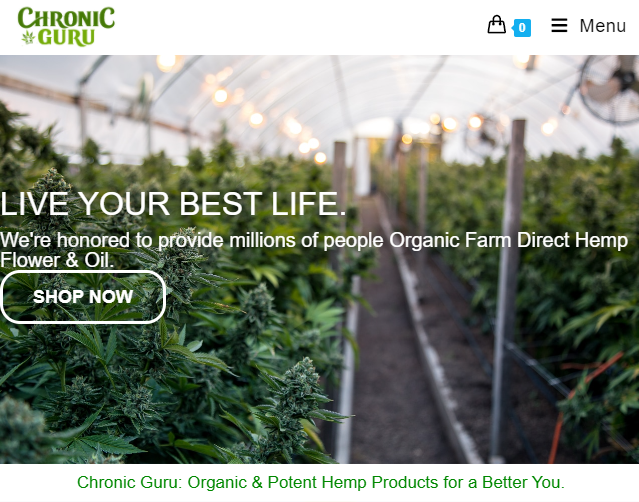
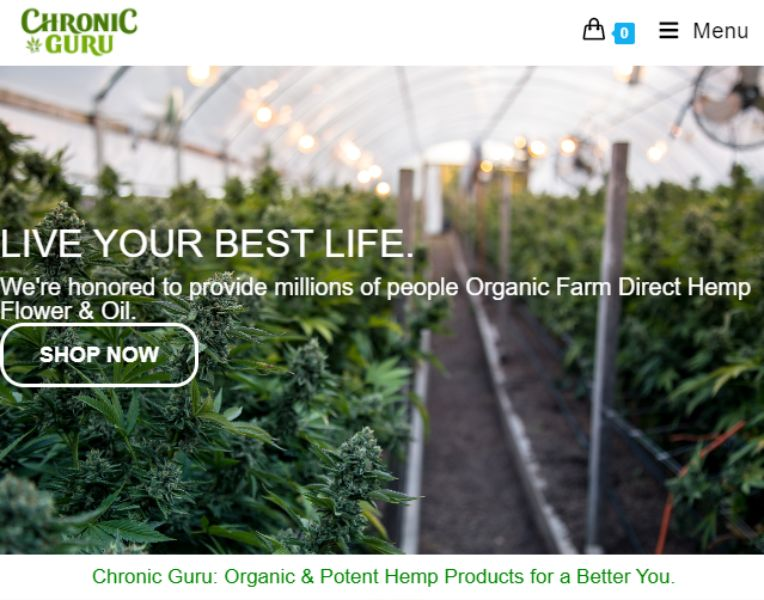
cosmetic changes
updated the layout to more user friendly on mobile, added another project

diff --git a/src/components/Projects/Projects.js b/src/components/Projects/Projects.js
@@ -3,6 +3,7 @@ import '../../App.css';
 import chronicguru from '../img/chronicguru.png';
 import learnsativa from '../img/learnsativa.png';
 import ladderlabs from '../img/ladderlabs.png';
+import dogclick from "../img/dogclick.PNG";
 
 
 class Projects extends Component {
@@ -10,17 +11,16 @@ class Projects extends Component {
     render() {
         return (
             <div>
-                <div className="container" id="project-con">
+                <div id="project-con">
                     <h1>Featured Projects</h1>
                     <hr></hr>
                     <div className="row" id="pro1">
-                        <div className="col-6">
+                        <div className="col-sm-6">
                             <a href="https:www.chronicguru.com" target="_blank" rel="noopener noreferrer">
                                 <img src={chronicguru} className="chronic-guru" alt="Chronic Guru Website Screenshot" />
-                            </a>
-                        </div>
-                        <div className="col-6">
+                            </a><br></br><br></br>
                             <h1>Chronic Guru</h1>
+                            <em><small>Created By: Patience Deaton 2019</small></em>
                             <p>Anim pariatur occaecat nostrud non tempor ullamco id enim. Ad adipisicing dolore sint do. In deserunt cupidatat nulla ut ad mollit do esse esse.
                             Duis ut laboris id aute laborum velit cillum occaecat minim laborum fugiat laboris. Consectetur incididunt id ipsum officia. Irure consequat
                             ipsum id minim exercitation amet cillum.</p>
@@ -28,15 +28,12 @@ class Projects extends Component {
                                 <button type="button" className="btn btn-primary btn-lg" data-toggle="button" aria-pressed="false" autoComplete="off">View Project</button>
                             </a>
                         </div>
-                    </div>
-                    <div className="row" id="pro2">
-                        <div className="col-6">
+                        <div className="col-sm-6">
                             <a href="https://www.learnsativa.org" target="_blank" rel="noopener noreferrer">
                                 <img src={learnsativa} className="learn-sativa" alt="Learn Sativa Screenshot" />
-                            </a>
-                        </div>
-                        <div className="col-6">
+                            </a><br></br><br></br>
                             <h1>Learn Sativa University</h1>
+                            <em><small>Created By: LSU 2019</small></em>
                             <p>Anim pariatur occaecat nostrud non tempor ullamco id enim. Ad adipisicing dolore sint do. In deserunt cupidatat nulla ut ad mollit do esse esse.
                             Duis ut laboris id aute laborum velit cillum occaecat minim laborum fugiat laboris. Consectetur incididunt id ipsum officia. Irure consequat
                             ipsum id minim exercitation amet cillum.</p>
@@ -44,21 +41,35 @@ class Projects extends Component {
                                 <button type="button" className="btn btn-primary btn-lg" data-toggle="button" aria-pressed="false" autoComplete="off">View Project</button>
                             </a>
                         </div>
+
                     </div>
-                    <div className="row" id="pro3">
-                        <div className="col-6">
-                            <a href="https://ladderlabs.io" target="_blank" rel="noopener noreferrer">
-                                <img src={ladderlabs} className="ladder-labs" alt="Ladder Labs Website Screenshot" />
+                    <div className="row" id="pro2">
+                        <div className="col-sm-6">
+                            <a href="https://patienced.github.io/Dog-Click-Game/" target="_blank" rel="noopener noreferrer">
+                                <img src={dogclick} className="ladder-labs" alt="Ladder Labs Website Screenshot" />
+                            </a><br></br><br></br>
+                            <h1>Dog Click Game</h1>
+                            <em><small>Created By: Patience Deaton 2020</small></em>
+                            <p>Anim pariatur occaecat nostrud non tempor ullamco id enim. Ad adipisicing dolore sint do. In deserunt cupidatat nulla ut ad mollit do esse esse.
+                            Duis ut laboris id aute laborum velit cillum occaecat minim laborum fugiat laboris. Consectetur incididunt id ipsum officia. Irure consequat
+                            ipsum id minim exercitation amet cillum.</p>
+                            <a href="https://patienced.github.io/Dog-Click-Game/" target="_blank" rel="noopener noreferrer">
+                                <button type="button" className="btn btn-primary btn-lg" data-toggle="button" aria-pressed="false" autoComplete="off">View Project</button>
                             </a>
                         </div>
-                        <div className="col-6">
+                        <div className="col-sm-6">
+                            <a href="https://ladderlabs.io" target="_blank" rel="noopener noreferrer">
+                                <img src={ladderlabs} className="ladder-labs" alt="Ladder Labs Website Screenshot" />
+                            </a><br></br><br></br>
                             <h1>Ladder Labs</h1>
+                            <em><small>Open Source Project, 2020</small></em>
                             <p>Anim pariatur occaecat nostrud non tempor ullamco id enim. Ad adipisicing dolore sint do. In deserunt cupidatat nulla ut ad mollit do esse esse.
                             Duis ut laboris id aute laborum velit cillum occaecat minim laborum fugiat laboris. Consectetur incididunt id ipsum officia. Irure consequat
                             ipsum id minim exercitation amet cillum.</p>
                             <a href="https://ladderlabs.io" target="_blank" rel="noopener noreferrer">
                                 <button type="button" className="btn btn-primary btn-lg" data-toggle="button" aria-pressed="false" autoComplete="off">View Project</button>
-                            </a>                        </div>
+                            </a>
+                        </div>
                     </div>
                 </div>
             </div>

diff --git a/src/components/Intro/Intro.js b/src/components/Intro/Intro.js
@@ -12,7 +12,7 @@ class Intro extends Component {
                         <div className="col-6">
                             <img src={portrait} className="selfie" alt="Portrait of Developer" />
                         </div>
-                        <div className="col-6" id="short-about">
+                        <div className="col-sm-6" id="short-about">
                             <h1>Hey There</h1>
                             <br></br>
                             <p>My name is Patience Deaton, and I currently reside in Orlando FL. I'm a Full Stack Developer with a passion for Frontend, currently

diff --git a/src/App.css b/src/App.css
@@ -196,7 +196,7 @@ body {
 }
 
 .chronic-guru {
-  max-width: 100%;
+  max-width: 95%;
   height: auto;
   top: 15%;
   left: 15%;
@@ -205,7 +205,7 @@ body {
 }
 
 .ladder-labs, .learn-sativa {
-  max-width: 100%;
+  max-width: 95%;
   height: auto;
   top: 15%;
   left: 15%;
@@ -224,8 +224,12 @@ body {
 }
 
 #pro1, #pro2, #pro3 {
-  margin-top: 5rem;
-  margin-bottom: 8rem;
+  margin-top: 2rem;
+  margin-bottom: 2rem;
+}
+
+.col-sm-4{
+  margin-bottom: 2rem;
 }
 
 /*Projects Section*/
